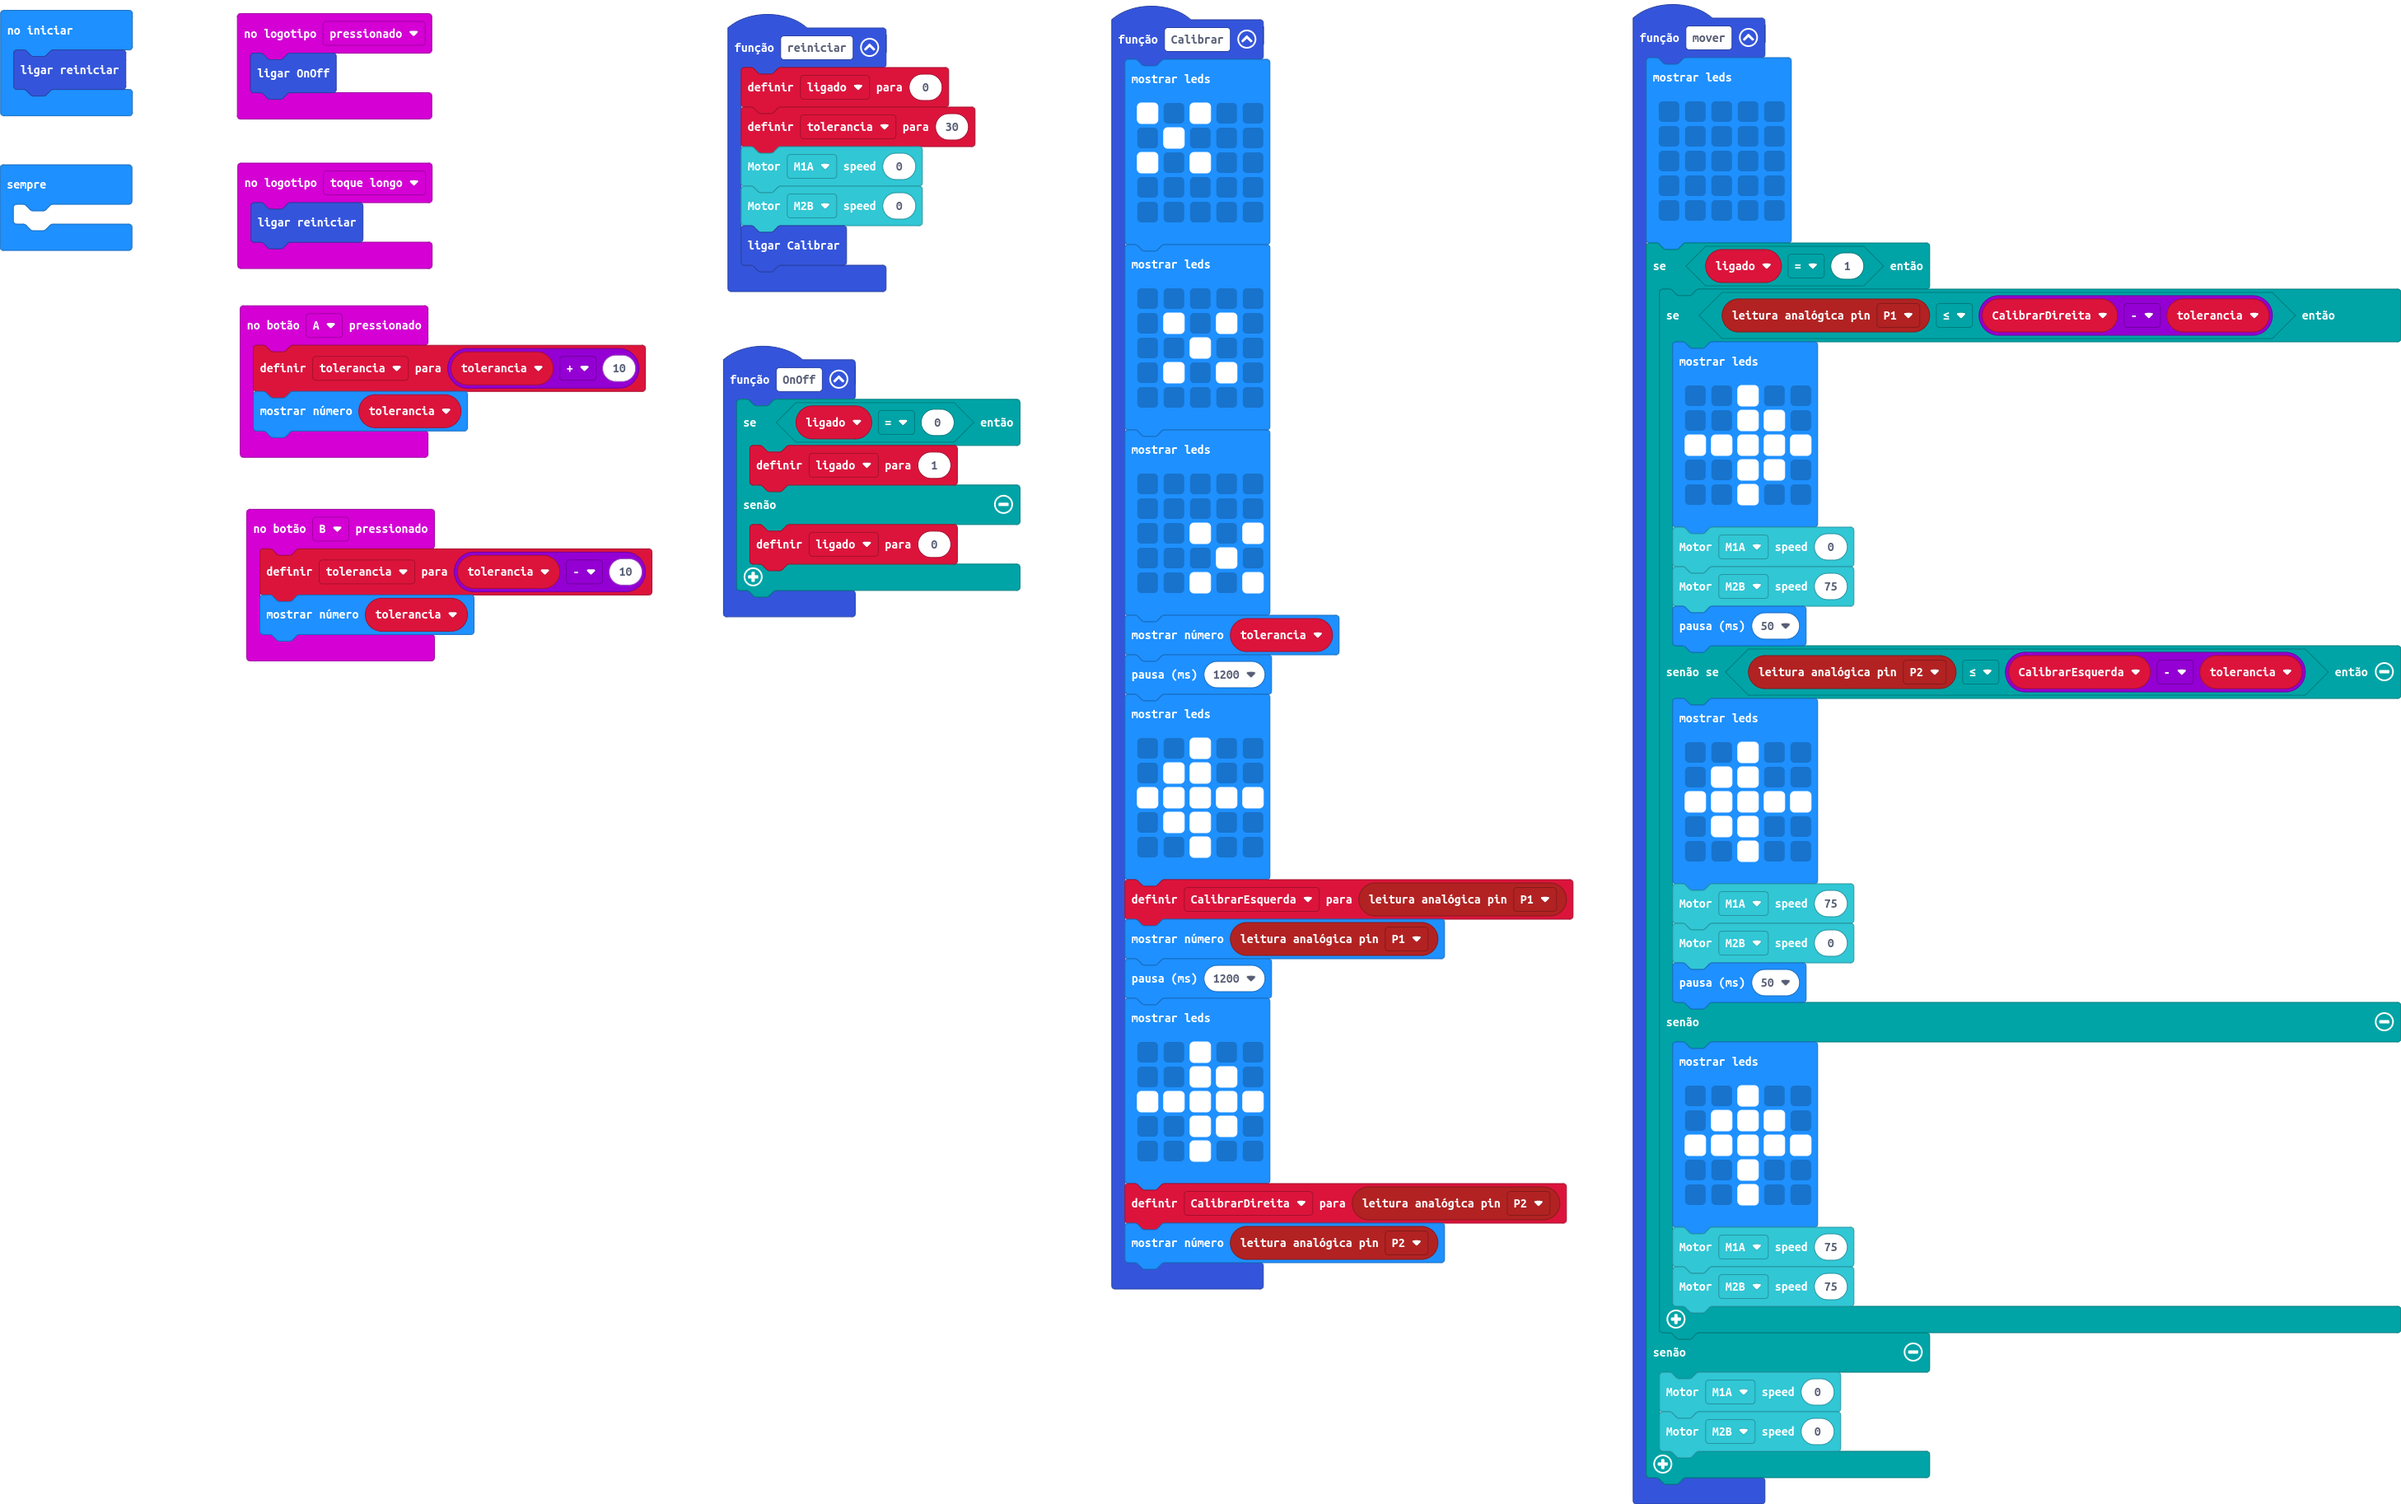
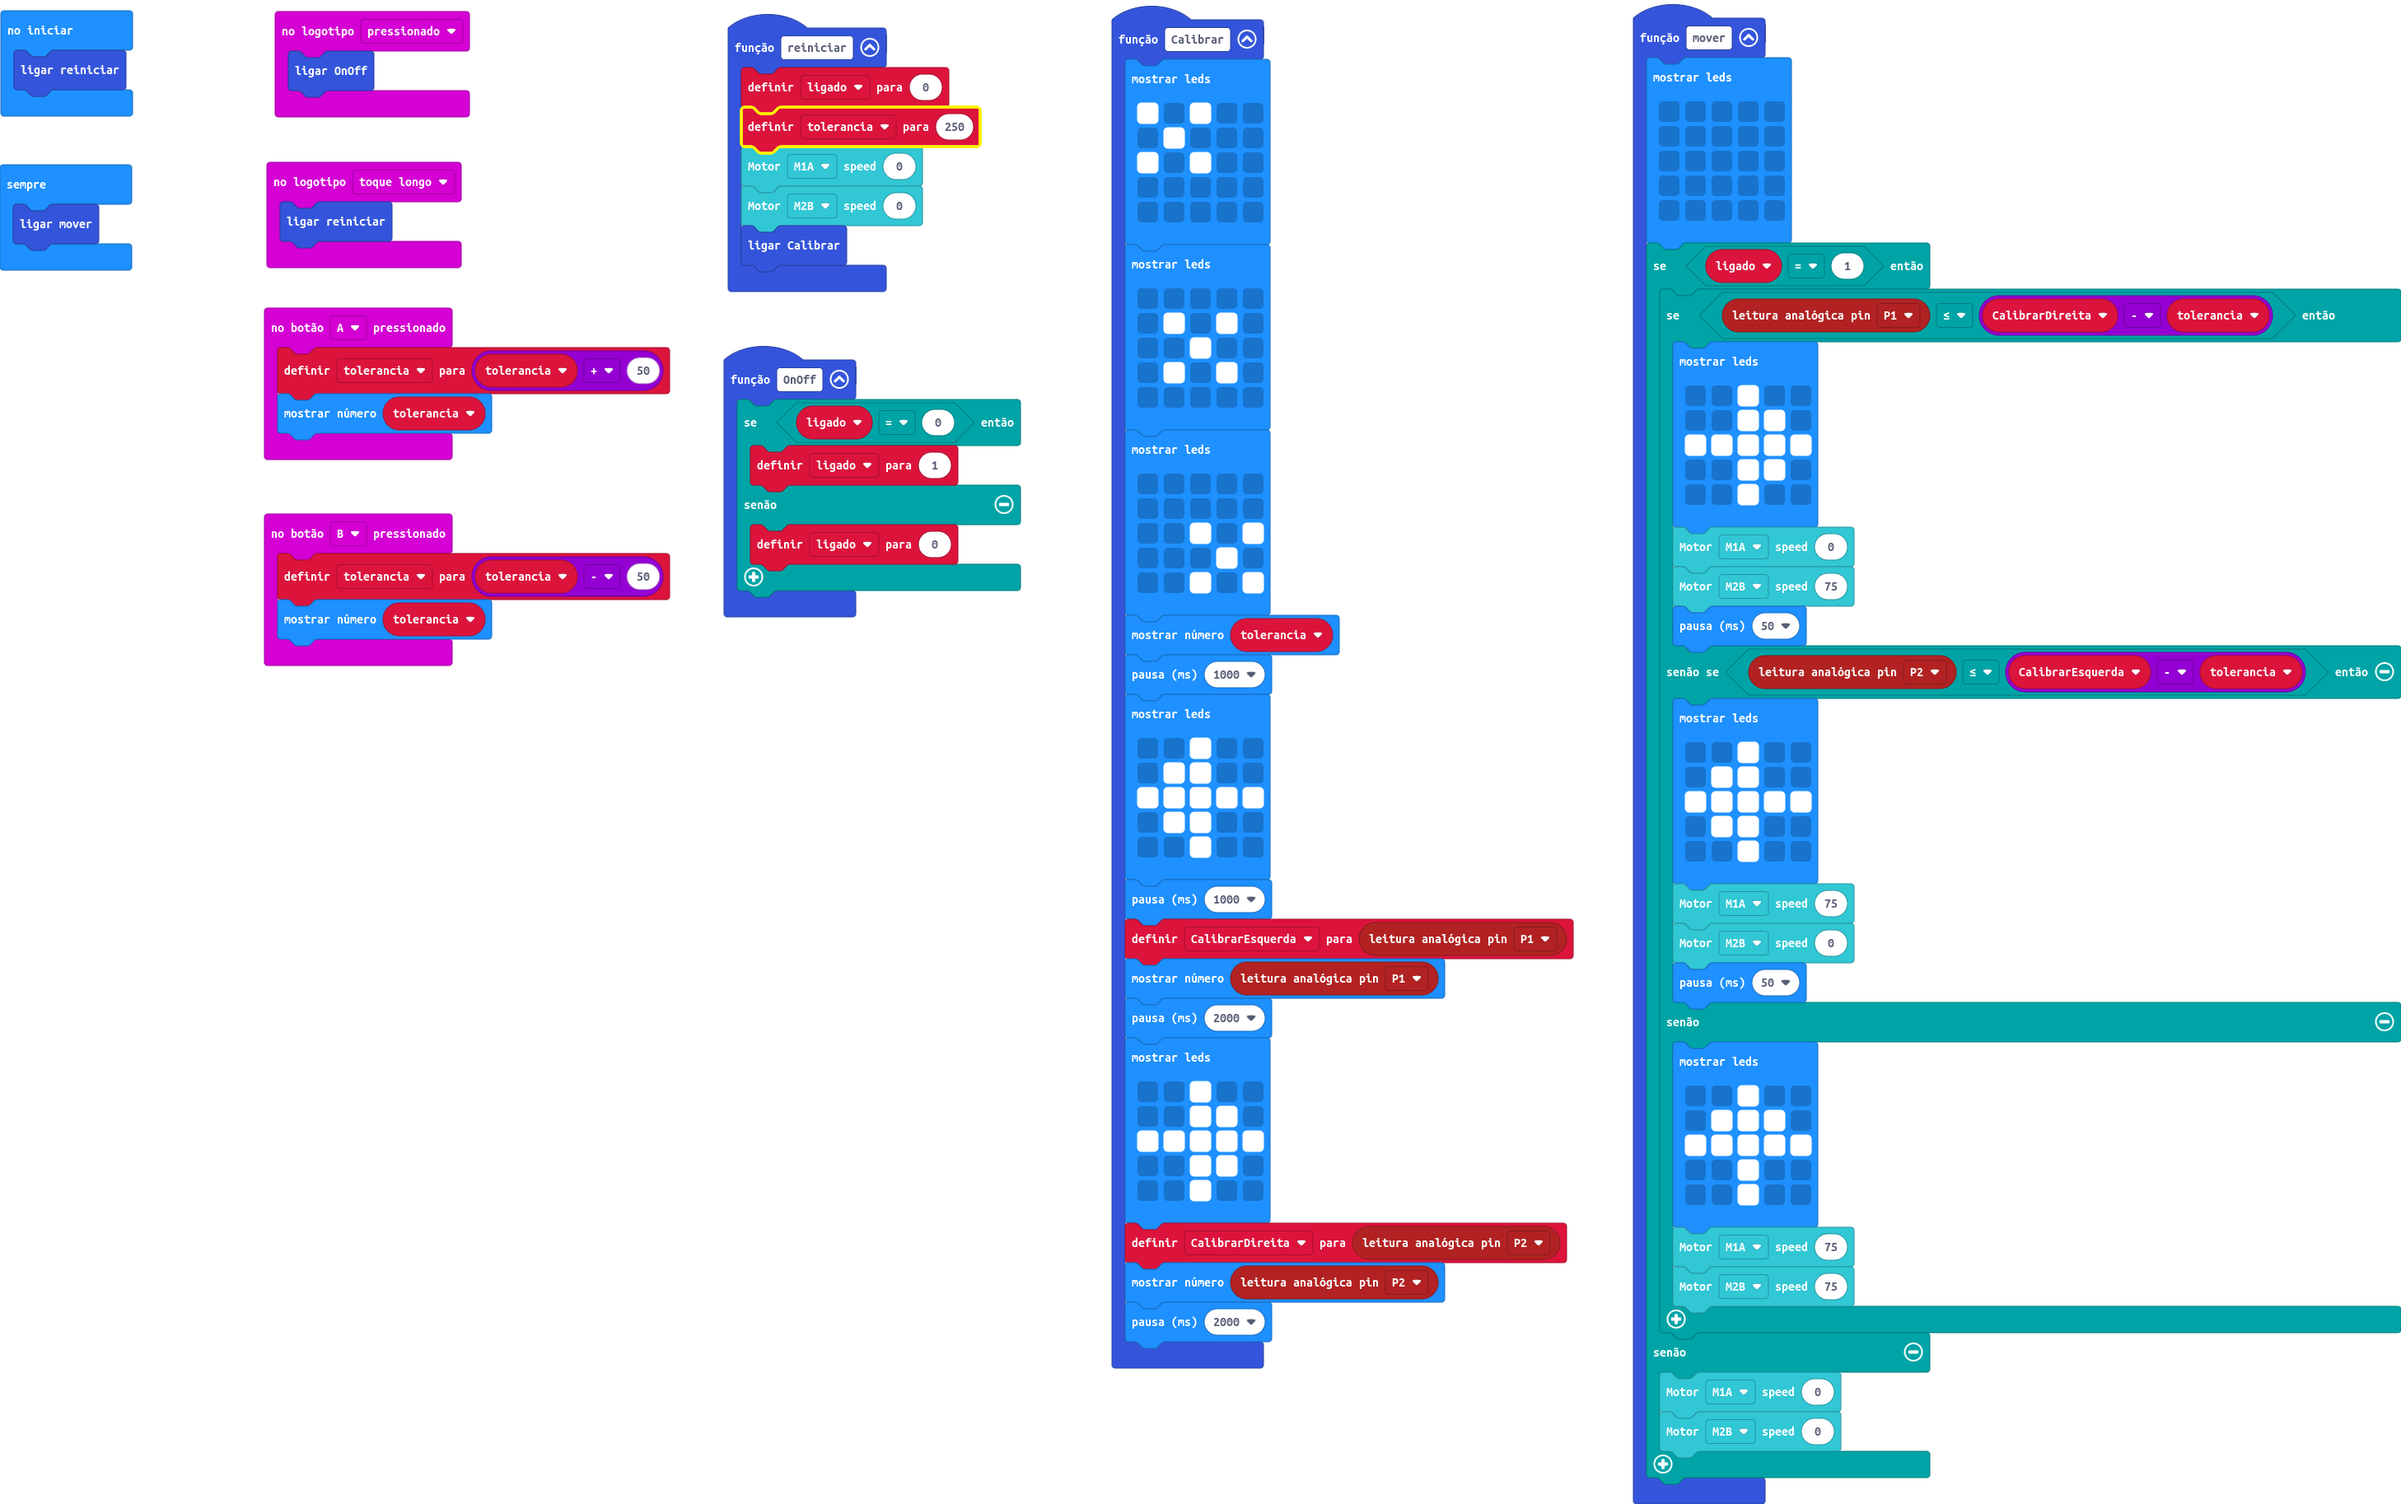
Atualizar 'main.blocks, main.ts'

diff --git a/main.ts b/main.ts
@@ -21,7 +21,7 @@ function Calibrar () {
         . . # . #
         `)
     basic.showNumber(tolerancia)
-    basic.pause(1200)
+    basic.pause(1000)
     basic.showLeds(`
         . . # . .
         . # # . .
@@ -29,9 +29,10 @@ function Calibrar () {
         . # # . .
         . . # . .
         `)
+    basic.pause(1000)
     CalibrarEsquerda = pins.analogReadPin(AnalogPin.P1)
     basic.showNumber(pins.analogReadPin(AnalogPin.P1))
-    basic.pause(1200)
+    basic.pause(2000)
     basic.showLeds(`
         . . # . .
         . . # # .
@@ -41,19 +42,20 @@ function Calibrar () {
         `)
     CalibrarDireita = pins.analogReadPin(AnalogPin.P2)
     basic.showNumber(pins.analogReadPin(AnalogPin.P2))
+    basic.pause(2000)
 }
 input.onLogoEvent(TouchButtonEvent.Pressed, function () {
     OnOff()
 })
 input.onButtonPressed(Button.A, function () {
-    tolerancia = tolerancia + 10
+    tolerancia = tolerancia + 50
     basic.showNumber(tolerancia)
 })
 input.onLogoEvent(TouchButtonEvent.LongPressed, function () {
     reiniciar()
 })
 input.onButtonPressed(Button.B, function () {
-    tolerancia = tolerancia - 10
+    tolerancia = tolerancia - 50
     basic.showNumber(tolerancia)
 })
 function mover () {
@@ -105,7 +107,7 @@ function mover () {
 }
 function reiniciar () {
     ligado = 0
-    tolerancia = 30
+    tolerancia = 250
     robotbit.MotorRun(robotbit.Motors.M1A, 0)
     robotbit.MotorRun(robotbit.Motors.M2B, 0)
     Calibrar()
@@ -123,5 +125,5 @@ let CalibrarEsquerda = 0
 let tolerancia = 0
 reiniciar()
 basic.forever(function () {
-	
+    mover()
 })
